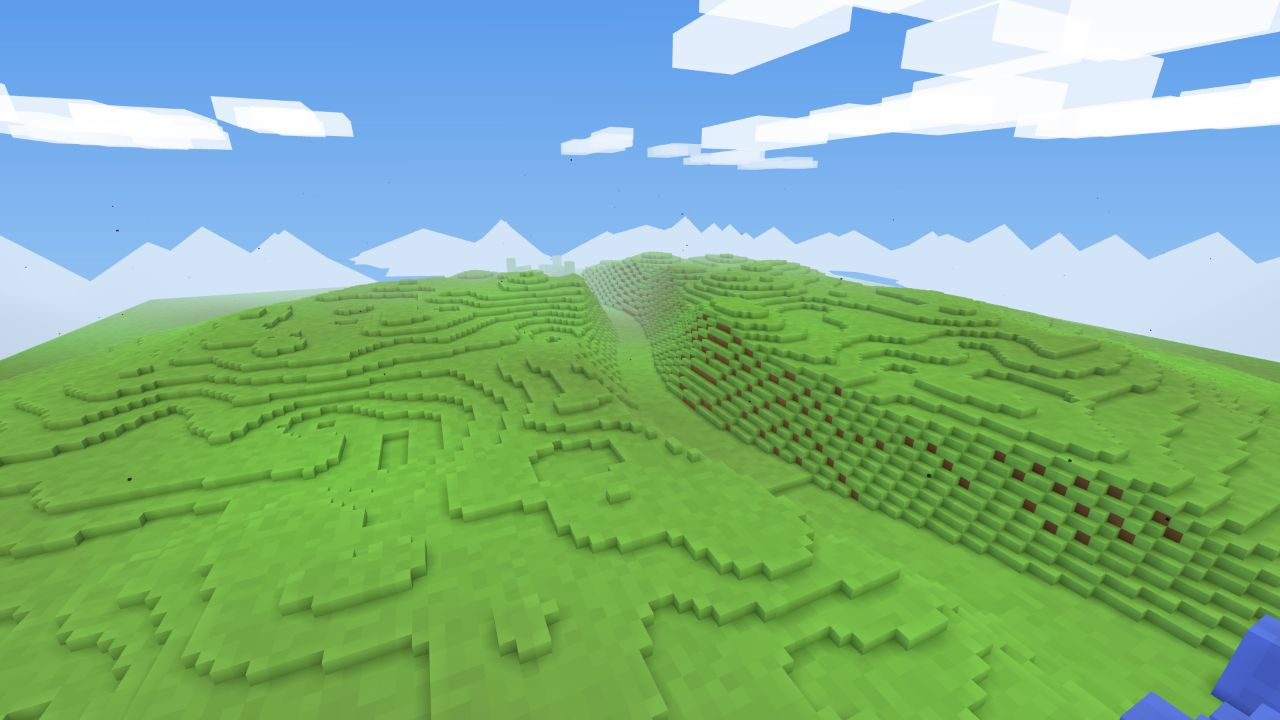
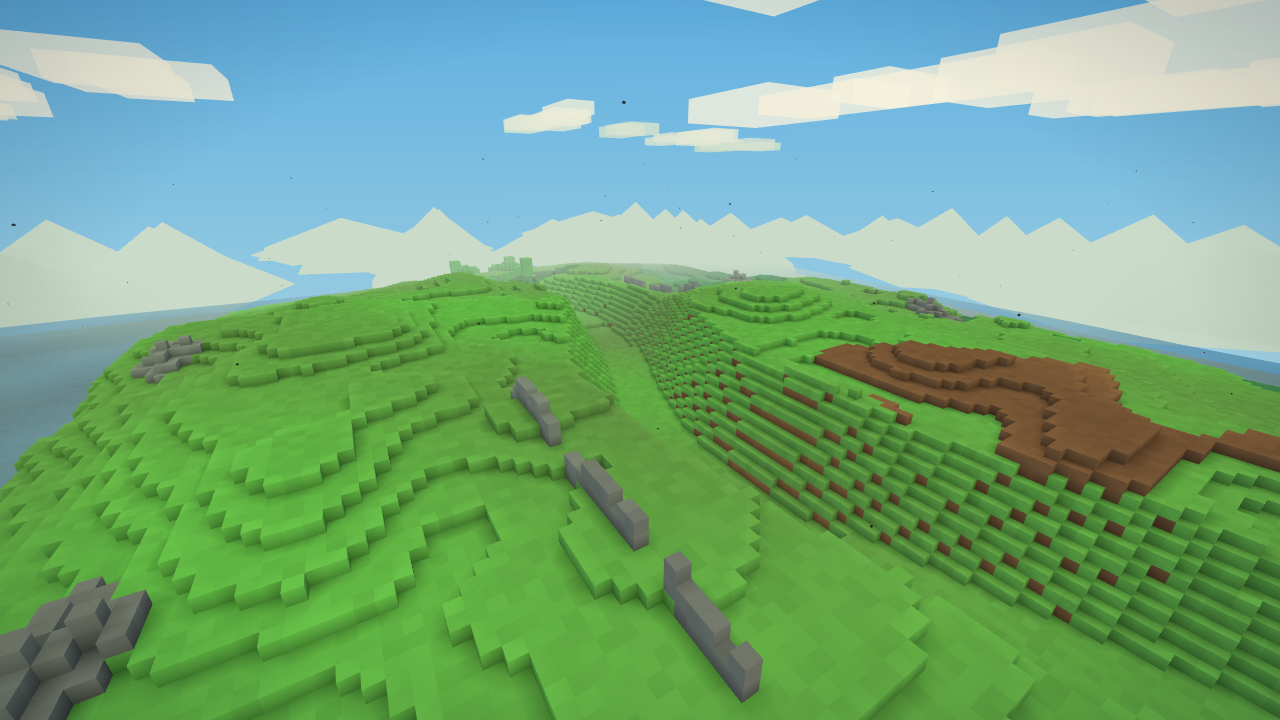
Tighten map combat spaces and CTF routes

diff --git a/src/mapgen.js b/src/mapgen.js
@@ -44,18 +44,22 @@ function mulberry32(a) {
 // these later is just changing a hex value here, nothing structural.
 export const MAPS = [
   { key: 'island',  name: 'GREENBELT', modes: ['ctf', 'tdm'],        gen: null,
+    envelope: { minX: 16, maxX: 240, minZ: 48, maxZ: 208, shape: 'rect', kind: 'shore' },
     atmosphere: { sky: ['#5eafe0', '#a6d3e2', '#e3ead5'], fog: 0xcadcc9, cloud: 0xf5f1dc, water: 0x347ba7,
       sun: [0.45, 1, 0.25], sunTint: [1.06, 1.01, 0.90] },
     paletteOverrides: { grass: 0x5f9f45, dirt: 0x75563a, sand: 0xc4ad73, stone: 0x70796f, moss: 0x3d7545 } },
   { key: 'beach',   name: 'BEACHHEAD', modes: ['ctf', 'tdm'],        gen: null,
+    envelope: { minX: 16, maxX: 240, minZ: 48, maxZ: 208, shape: 'rect', kind: 'shore' },
     atmosphere: { sky: ['#4d9fc9', '#9bcbd8', '#e8eee4'], fog: 0xd3e3dc, cloud: 0xf8f4e8, water: 0x248fa4,
       sun: [-0.25, 1, 0.45], sunTint: [1.08, 1.02, 0.88] },
     paletteOverrides: { grass: 0x6f9f55, dirt: 0x89684d, sand: 0xd2b977, stone: 0x737b80, moss: 0x4d7459 } },
   { key: 'forest',  name: 'PINEFALL',  modes: ['ctf', 'tdm'],        gen: null,
+    envelope: { minX: 16, maxX: 240, minZ: 48, maxZ: 208, shape: 'rect', kind: 'shore' },
     atmosphere: { sky: ['#aaa3d2', '#c8c0dc', '#e4ddea'], fog: 0xc9c1d6, cloud: 0xf1edf4, water: 0x3c6967,
       sun: [0.55, 1, -0.35], sunTint: [1.02, 1.00, 1.06] },
     paletteOverrides: { grass: 0x4f824c, dirt: 0x685344, sand: 0xb0a683, stone: 0x72757f, moss: 0x315d3f } },
   { key: 'desert',  name: 'DUNES',     modes: ['tdm', 'koth'],       gen: null,
+    envelope: { minX: 32, maxX: 224, minZ: 32, maxZ: 224, shape: 'ellipse', kind: 'escarpment' },
     hills: [
       { x: SX / 2, z: SZ / 2, r: 8, label: 'CENTER' },
       { x: SX / 2, z: SZ / 2 - 40, r: 8, label: 'NORTH' },
@@ -65,6 +69,7 @@ export const MAPS = [
       sun: [-0.55, 0.8, -0.25], sunTint: [1.12, 1.02, 0.82] },
     paletteOverrides: { grass: 0x8c8b55, dirt: 0x895d49, sand: 0xcaa461, stone: 0x846f72, moss: 0x74694f } },
   { key: 'crown',   name: 'CROWN',     modes: ['koth', 'tdm'],       gen: null,
+    envelope: { minX: 32, maxX: 224, minZ: 32, maxZ: 224, shape: 'ellipse', kind: 'shore' },
     hills: [
       { x: SX / 2, z: SZ / 2, r: 8, label: 'CROWN' },
       { x: SX / 2, z: SZ / 2 - 40, r: 8, label: 'NORTH GATE' },
@@ -74,6 +79,7 @@ export const MAPS = [
       sun: [0.35, 1, -0.55], sunTint: [1.08, 1.04, 0.94] },
     paletteOverrides: { grass: 0x567447, dirt: 0x604636, sand: 0xb29a68, stone: 0x515d69, moss: 0x334f3c } },
   { key: 'caldera', name: 'CALDERA',   modes: ['koth', 'tdm'],       gen: null,
+    envelope: { minX: 32, maxX: 224, minZ: 32, maxZ: 224, shape: 'ellipse', kind: 'rim' },
     hills: [
       { x: SX / 2, z: SZ / 2, r: 8, label: 'KNOLL' },
       { x: SX / 2, z: SZ / 2 - 28, r: 8, label: 'NORTH BOWL' },
@@ -83,6 +89,37 @@ export const MAPS = [
       sun: [-0.6, 0.72, 0.28], sunTint: [1.14, 0.98, 0.78] },
     paletteOverrides: { grass: 0x74654d, dirt: 0x7b5047, sand: 0xb58568, stone: 0x4e4b52, moss: 0x53594c } },
 ];
+
+// The voxel world remains 256×256; an envelope is the authored combat space
+// inside it.  It is deliberately data, rather than a collision rule: maps use
+// shorelines, escarpments, and volcanic shelves to make leaving that space a
+// bad route while game systems use it to avoid dead outer wilderness.
+export function mapEnvelope(mapIndex = 0) {
+  return MAPS[((mapIndex % MAPS.length) + MAPS.length) % MAPS.length].envelope;
+}
+export function envelopeContains(envelope, x, z, inset = 0) {
+  const minX = envelope.minX + inset, maxX = envelope.maxX - inset;
+  const minZ = envelope.minZ + inset, maxZ = envelope.maxZ - inset;
+  if (x < minX || x > maxX || z < minZ || z > maxZ) return false;
+  if (envelope.shape !== 'ellipse') return true;
+  const rx = (maxX - minX) / 2, rz = (maxZ - minZ) / 2;
+  const cx = (minX + maxX) / 2, cz = (minZ + maxZ) / 2;
+  return ((x - cx) / rx) ** 2 + ((z - cz) / rz) ** 2 <= 1;
+}
+export function clampToEnvelope(envelope, x, z, inset = 0) {
+  const minX = envelope.minX + inset, maxX = envelope.maxX - inset;
+  const minZ = envelope.minZ + inset, maxZ = envelope.maxZ - inset;
+  let px = Math.max(minX, Math.min(maxX, x));
+  let pz = Math.max(minZ, Math.min(maxZ, z));
+  if (envelope.shape === 'ellipse') {
+    const rx = (maxX - minX) / 2, rz = (maxZ - minZ) / 2;
+    const cx = (minX + maxX) / 2, cz = (minZ + maxZ) / 2;
+    const nx = (px - cx) / rx, nz = (pz - cz) / rz;
+    const d = Math.hypot(nx, nz);
+    if (d > 1) { px = cx + nx / d * rx; pz = cz + nz / d * rz; }
+  }
+  return { x: px, z: pz };
+}
 
 // Mutated by each generator; game.js reads spawn points and flag stands here.
 export const BASE = {
@@ -204,6 +241,7 @@ function genIsland(world, seed) {
     }
 
   flattenBases(height);
+  applyShoreEnvelope(height, mapEnvelope(0));
 
   // A gentle road between the bases — pulled toward its target height in both
   // directions: causeway over water, soft valley through hills, wide smooth
@@ -302,6 +340,7 @@ function genBeach(world, seed) {
     }
 
   flattenBases(height);
+  applyShoreEnvelope(height, mapEnvelope(1));
   // Broad coastal material zones replace the old hard sand/grass split.
   // The bands are deliberately low-frequency: they read as damp shoreline,
   // churned bluff earth, meadow, scrub, and exposed ridge rock—not as a
@@ -410,6 +449,59 @@ export function pinefallRavineCenter(seed, x) {
   const ford = SX / 2 + ((seed % 5) - 2) * 6;
   return SZ / 2 + 58 * Math.sin((x - ford) * 0.022);
 }
+
+const smooth01 = t => { t = Math.min(1, Math.max(0, t)); return t * t * (3 - 2 * t); };
+
+function envelopeEdgeDistance(envelope, x, z) {
+  if (envelope.shape !== 'ellipse')
+    return Math.min(x - envelope.minX, envelope.maxX - x,
+      z - envelope.minZ, envelope.maxZ - z);
+  const cx = (envelope.minX + envelope.maxX) / 2;
+  const cz = (envelope.minZ + envelope.maxZ) / 2;
+  const rx = (envelope.maxX - envelope.minX) / 2;
+  const rz = (envelope.maxZ - envelope.minZ) / 2;
+  const radial = Math.hypot((x - cx) / rx, (z - cz) / rz);
+  return (1 - radial) * Math.min(rx, rz);
+}
+
+// Pull a rectangular combat space down into water over a broad shore.  The
+// transition happens inside the declared envelope, so the edge reads as a
+// shoreline/bank and never as a hard gameplay boundary.
+function applyShoreEnvelope(height, envelope, depth = 14) {
+  for (let z = 0; z < SZ; z++) for (let x = 0; x < SX; x++) {
+    const edge = envelopeEdgeDistance(envelope, x, z);
+    if (edge >= depth) continue;
+    const i = at(x, z);
+    if (edge <= 0) height[i] = Math.min(height[i], SEA - 3);
+    else {
+      const t = smooth01(edge / depth);
+      height[i] = (SEA - 3) * (1 - t) + height[i] * t;
+    }
+  }
+}
+
+// Arena maps retain dry natural containment. The boundary is a rounded ridge,
+// not a square stadium wall: original terrain contributes to its silhouette,
+// then the exterior falls away so climbing over it never unlocks a safe flat
+// highway around the fight. It remains ordinary destructible terrain.
+function applyArenaRim(height, envelope, floor = SEA + 8, rim = SEA + 24) {
+  for (let z = 0; z < SZ; z++) for (let x = 0; x < SX; x++) {
+    const edge = envelopeEdgeDistance(envelope, x, z);
+    if (edge >= 18) continue;
+    const i = at(x, z), original = height[i];
+    // The exterior is a lower wasteland behind a sheer voxel escarpment.
+    // Dropping out is possible but dangerous; walking a safe perimeter and
+    // stepping back into the arena is not.
+    if (edge < 0) {
+      height[i] = Math.max(SEA + 2, original - 7);
+      continue;
+    }
+    const ridge = 1 - smooth01(edge / 18);
+    const irregularRim = rim + (original - floor) * 0.28;
+    const shaped = original * (1 - ridge) + irregularRim * ridge;
+    height[i] = Math.max(original, shaped);
+  }
+}
 export function pinefallRavineHeight(originalHeight, distance) {
   if (distance >= PINEFALL_RAVINE_HALF_WIDTH) return originalHeight;
   // Smoothly blend the original hillside into a one-block-deep creek bed.
@@ -444,6 +536,7 @@ function genForest(world, seed) {
     }
 
   flattenBases(height);
+  applyShoreEnvelope(height, mapEnvelope(2));
   fillColumns(world, height, (x, z, h) => h < SEA ? BLOCK.DIRT : BLOCK.GRASS);
 
   // Four tree silhouettes instead of one cloned trunk-plus-cube. Foliage is
@@ -497,6 +590,7 @@ function genForest(world, seed) {
 function genDesert(world, seed) {
   const noise = makeNoise(seed);
   const height = new Float32Array(SX * SZ);
+  BASE.green.x = 52; BASE.blue.x = SX - 52;
   const CX = SX / 2, CZ = SZ / 2; // the hill sits at dead center
   // Everything west of the midfield axis is mirrored east (x -> SX-1-x), so
   // both teams walk identical approaches, perches, and cover. The bases sit
@@ -548,6 +642,7 @@ function genDesert(world, seed) {
     }
 
   flattenBases(height);
+  applyArenaRim(height, mapEnvelope(3), SEA + 10, SEA + 26);
   fillColumns(world, height,
     (x, z) => {
       if (Math.hypot(x - AX, z - CZ) < 9) return BLOCK.STONE;
@@ -632,6 +727,7 @@ const ss = t => { t = clamp01(t); return t * t * (3 - 2 * t); };
 function genCrown(world, seed) {
   const noise = makeNoise(seed);
   const height = new Float32Array(SX * SZ);
+  BASE.green.x = 52; BASE.blue.x = SX - 52;
   const CX = SX / 2, CZ = SZ / 2, TOP = SEA + 20;
 
   for (let z = 0; z < SZ; z++)
@@ -660,6 +756,7 @@ function genCrown(world, seed) {
     }
 
   flattenBases(height);
+  applyShoreEnvelope(height, mapEnvelope(4), 16);
   fillColumns(world, height, (x, z, h) => h <= SEA + 1 ? BLOCK.SAND : BLOCK.GRASS);
 
   // The ring fort: a broken stone circle on the crown, gates on the four
@@ -717,6 +814,7 @@ function genCrown(world, seed) {
 function genCaldera(world, seed) {
   const noise = makeNoise(seed);
   const height = new Float32Array(SX * SZ);
+  BASE.green.x = 52; BASE.blue.x = SX - 52;
   const CX = SX / 2, CZ = SZ / 2;
 
   for (let z = 0; z < SZ; z++)
@@ -750,6 +848,7 @@ function genCaldera(world, seed) {
     }
 
   flattenBases(height);
+  applyArenaRim(height, mapEnvelope(5), SEA + 12, SEA + 28);
   // Scorched ground: stone outcrops breaking through packed ash.
   fillColumns(world, height,
     (x, z) => noise(x * 0.11 + 3, z * 0.11 + 3) > 0.62 ? BLOCK.STONE : BLOCK.DIRT);

diff --git a/src/bots.js b/src/bots.js
@@ -12,6 +12,7 @@ import { teamHex } from './settings.js';
 import { resetEnvironmentalState } from './environment.js';
 import { botDifficulty, botSeparation, botTargetScore, chooseLocalRoute,
   hillPost, rememberedEnemyPosition } from './bot-rules.js';
+import { clampToEnvelope, mapEnvelope } from './mapgen.js';
 
 const NAMES = {
   blue:  ['Vex', 'Havoc', 'Irons', 'Dagger', 'Rook', 'Frost'],
@@ -160,7 +161,13 @@ export class Bot {
     // 9-unit radius comes into play).
     const d = Math.hypot(v.x - this.body.pos.x, v.z - this.body.pos.z);
     const taper = Math.min(1, Math.max(0, (d - 15) / 20));
-    v.z += this.lane * taper;
+    let lane = this.lane;
+    if (this.game.gameMode === 'ctf') {
+      if (this.tacticalRole === 'flank-left') lane = -44;
+      else if (this.tacticalRole === 'flank-right') lane = 44;
+      else if (this.tacticalRole === 'attack') lane = 0;
+    }
+    v.z += lane * taper;
     return v;
   }
 
@@ -194,14 +201,21 @@ export class Bot {
   // Roam the contested middle band, biased toward the enemy half — a patrol,
   // not a camp. Fresh waypoint on arrival or on a timeout.
   _patrolGoal() {
-    const b = this.body, w = this.game.world;
+    const b = this.body, w = this.game.world, envelope = mapEnvelope(this.game.mapIndex);
     const arrived = this.patrol && Math.hypot(this.patrol.x - b.pos.x, this.patrol.z - b.pos.z) < 7;
     if (!this.patrol || arrived || this.patrolT <= 0) {
       this.patrolT = 18;
       for (let tries = 0; tries < 8; tries++) {
-        const x = SX * 0.25 + Math.random() * SX * (this.heading > 0 ? 0.55 : 0.5);
-        const px = this.heading > 0 ? x : SX - x; // bias across midfield
-        const pz = SZ * 0.2 + Math.random() * SZ * 0.6;
+        const advance = 0.24 + Math.random() * 0.52;
+        const px = this.heading > 0
+          ? envelope.minX + advance * (envelope.maxX - envelope.minX)
+          : envelope.maxX - advance * (envelope.maxX - envelope.minX);
+        const flank = (Math.random() - 0.5) * (envelope.maxZ - envelope.minZ) * 0.72;
+        const taper = Math.min(1, Math.abs(px - (envelope.minX + envelope.maxX) / 2)
+          / ((envelope.maxX - envelope.minX) * 0.32));
+        const p = clampToEnvelope(envelope, px,
+          (envelope.minZ + envelope.maxZ) / 2 + flank * (1 - taper * 0.6), 5);
+        const pz = p.z;
         if (w.surface(px | 0, pz | 0) < SEA) continue; // don't patrol the sea
         this.patrol = new THREE.Vector3(px, w.surface(px | 0, pz | 0), pz);
         break;

diff --git a/src/game.js b/src/game.js
@@ -2,7 +2,8 @@
 // Modes: 'solo' (local only), 'host' (authoritative, broadcasts), 'client' (thin).
 import * as THREE from 'three';
 import { VoxelWorld, SEA, SX, SY, SZ, BLOCK, PALETTE, skyGradient } from './world.js';
-import { generateMap, BASE, MAPS, mapsForMode, mapAtmosphere } from './mapgen.js';
+import { generateMap, BASE, MAPS, mapsForMode, mapAtmosphere,
+  envelopeContains, mapEnvelope } from './mapgen.js';
 import { Player, TOOLS, GUN_CLASSES } from './player.js';
 import { Bot, reserveBotId } from './bots.js';
 import { Effects } from './effects.js';
@@ -1425,6 +1426,7 @@ export class Game {
   _spawnSurface(x, z) {
     const fx = Math.floor(x), fz = Math.floor(z);
     if (fx < 2 || fz < 2 || fx >= SX - 2 || fz >= SZ - 2) return null;
+    if (!envelopeContains(mapEnvelope(this.mapIndex), x, z, 3)) return null;
     const h = this.world.surface(fx, fz);
     if (h < SEA) return null;
     let rim = h;

diff --git a/src/bot-rules.js b/src/bot-rules.js
@@ -139,7 +139,11 @@ export function assignBotRoles(mode, bots, context = {}) {
     set(nearest(context.friendlyCarrier, unassigned(used))[0], 'escort', used);
   set(nearest(context.ownStand, unassigned(used))[0], 'defend', used);
   set(nearest(context.midfield, unassigned(used))[0], 'mid', used);
-  for (const b of unassigned(used)) roles[b.id] = 'attack';
+  const attackers = unassigned(used);
+  for (let i = 0; i < attackers.length; i++) {
+    roles[attackers[i].id] = attackers.length >= 3
+      ? ['flank-left', 'attack', 'flank-right'][i] : 'attack';
+  }
   return roles;
 }
 

diff --git a/index.html b/index.html
@@ -986,6 +986,6 @@
     </div>
   </div>
 
-  <script type="module" src="./src/main.js?v=33"></script>
+  <script type="module" src="./src/main.js?v=34"></script>
 </body>
 </html>
